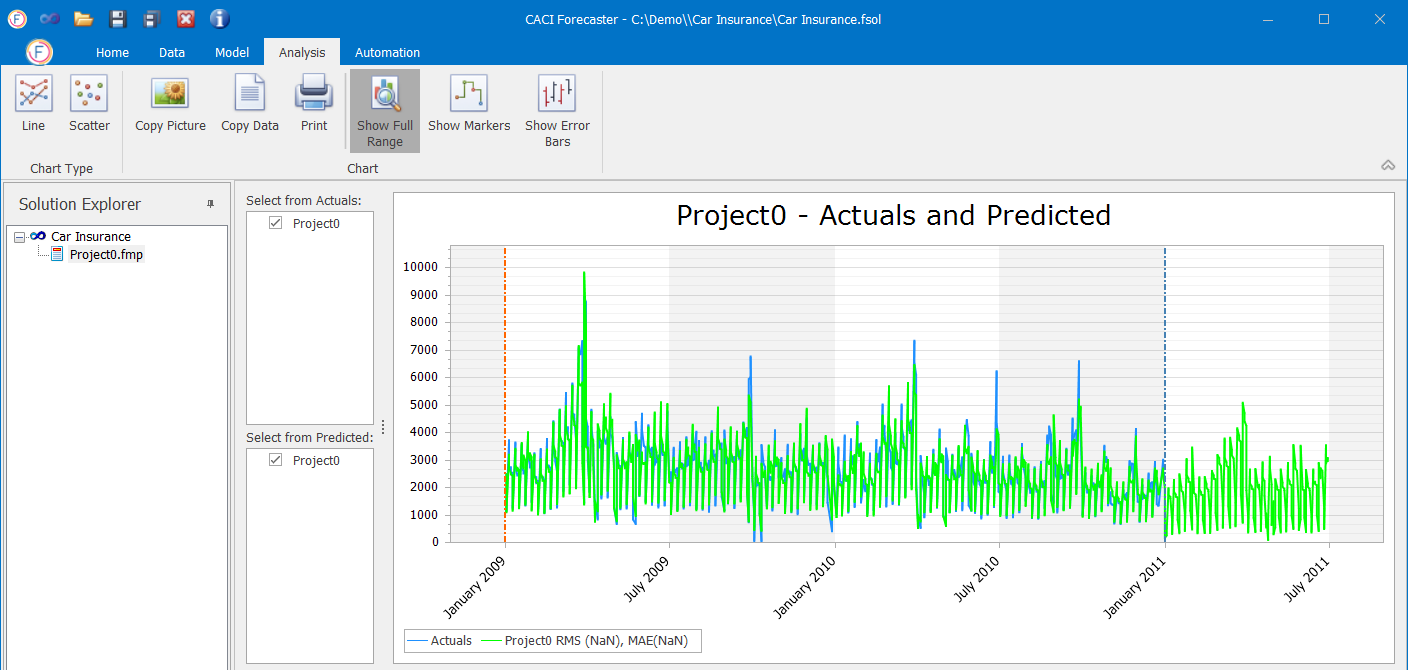
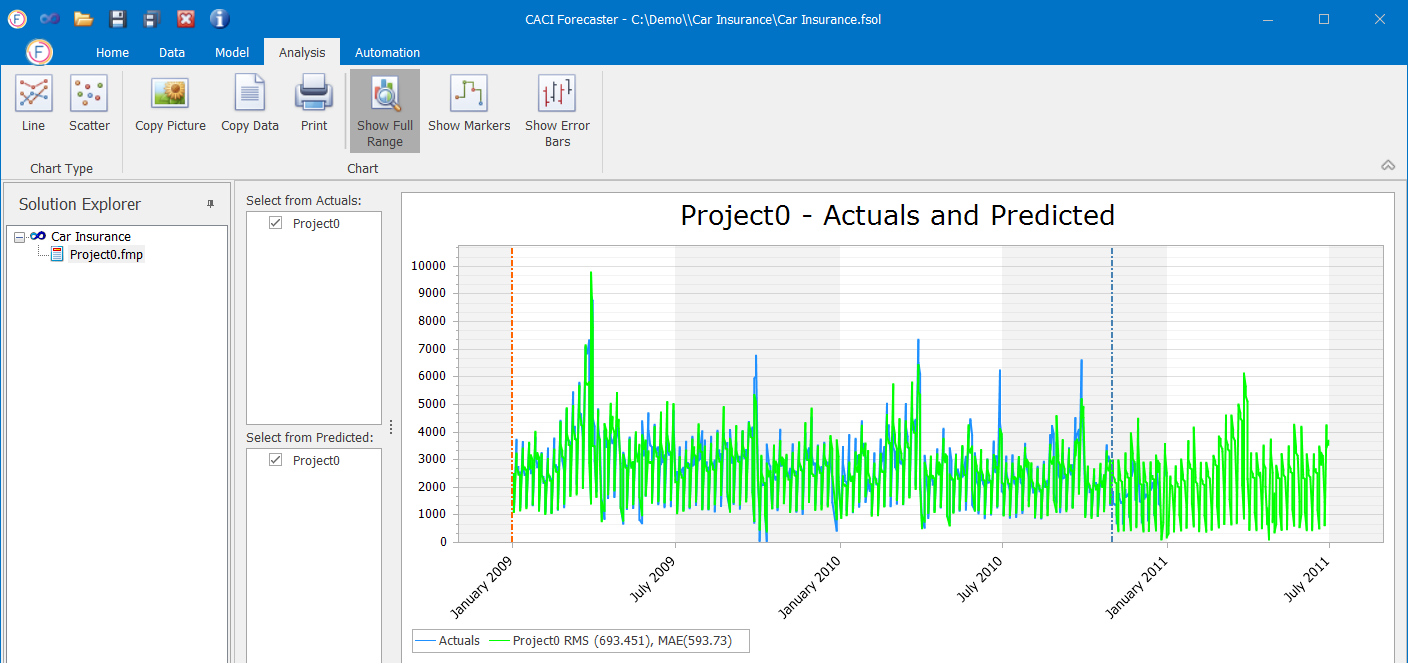
updates

diff --git a/UserGuide/Getting-started/Quick-start.md b/UserGuide/Getting-started/Quick-start.md
@@ -1,6 +1,6 @@
 # Quick Start
 
-The CACI Forecaster provides planners with the best forecasting models available. These models provide superior forecasting accuracy when compared with existing workforce management products. CACI Forecaster is quick and easy to use and provides a controlled and straightforward forecast generation process.
+The CACI Forecaster provides planners with the best forecasting models available. These models provide superior forecasting accuracy when compared with existing ~~workforce management products~~. CACI Forecaster is quick and easy to use and provides a controlled and straightforward forecast generation process.
 
 ### Before you start
 
@@ -11,15 +11,15 @@ Make sure that you have the following:
 
 
 ### Create a new Solution
-- **Open** CACI Forecaster
+- **Open** CACI Forecaster.
 
-- In CACI Forecaster **click** “New” to create a new solution
+- In CACI Forecaster **click** “New” to create a new solution.
 
 ![New Solution](imgs/QuickStart_NewSolution.png)
 
-- **Type** in a solution name i.e. "Car Insurance" in the pop-up window
+- **Type** in a solution name i.e. "Car Insurance" in the pop-up window.
 
-- **Click** “OK” to continue
+- **Click** “OK” to continue.
 
 ### Import the Data
 - In the “Data Importer” part of the ribbon, **select** the "Text" icon then the "Import" icon – this tells the forecaster that you are going to import a text file.
@@ -46,7 +46,7 @@ Forecaster can also import from Excel files or run any custom process using the 
 ![Target Column](imgs/QuickStart_TargetColumn.png)
 
 
-- Now you need to select a “Start point”. **Scroll down** to row with date "01/01/2011" and **select** the row by clicking on the row header. Then **click** on the the Forecast Start button - the row will turn light blue.
+- Now you need to select a “Start point”. **Scroll down** to row with date "01/11/2010" and **select** the row by clicking on the row header. Then **click** on the the Forecast Start button - the row will turn light blue.
 
 ![Forecast Start](imgs/QuickStart_ForecastStart.png)
 
@@ -73,7 +73,7 @@ The data above the “Forecast Start” is historic data that CACI Forecaster wi
 
 
 ### Analyze results
-- **Click** the "Analysis" tab - a graph of the actual target value and forecast target is displayed with a range of performance metrics.
+- **Click** on the "Analysis" tab - a graph of the actual target value and forecast target is displayed with a range of performance metrics.
 
 ![Analysis Tab](imgs/QuickStart_Analysis.png)
 
